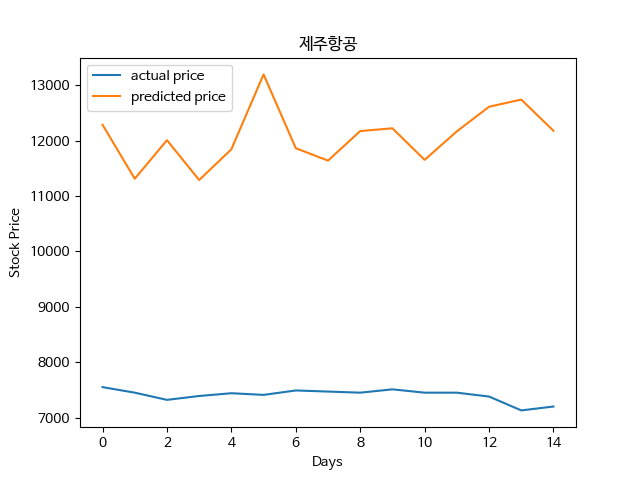
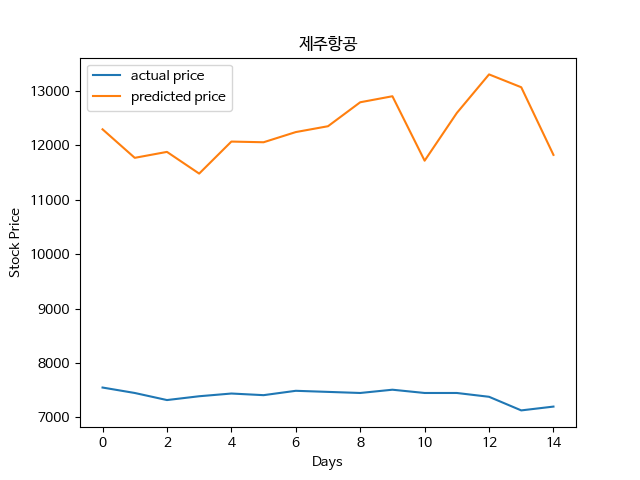
25.02.06

diff --git a/stock/pred_t.py b/stock/pred_t.py
@@ -45,18 +45,18 @@ if __name__ == "__main__":
 
 # Train Parameters
 num_layers = 2  # number of layers in RNN
-learning_rate = 0.001
+learning_rate = 0.0005
 num_epochs = 5000
 input_size = 8
 num_classes = 1
 timesteps = seq_length = 30
 future_seq = 15  # 예측하고자 하는 미래 시퀀스 길이
 
-d_model = 16         # 내부 임베딩 차원
-nhead = 2            # 멀티헤드 Attention의 head 수
+d_model = 32         # 내부 임베딩 차원
+nhead = 8            # 멀티헤드 Attention의 head 수
 dropout = 0.1
 
-weight_decay = 1e-4
+weight_decay = 1e-5
 early_stopping_patience = 500
 early_stopping_delta = 1e-4
 
@@ -69,7 +69,7 @@ if not os.path.exists(file_path):
     print(f"파일이 존재하지 않습니다. {stock_name} 데이터를 다운로드합니다...")
 
     df = stock.get_market_ohlcv_by_date(start_date, end_date, code)
-    print(df.head())
+    # print(df.head())
 
     # adding RSI Index
     df['RSI'] = ta.momentum.rsi(df['종가'], window = 14)
@@ -85,6 +85,7 @@ if not os.path.exists(file_path):
     print(f"{stock_name} 데이터 저장 완료!")
 
 df = pd.read_csv(file_path, encoding='utf-8-sig')
+print(df.head(3))
 
 df_last_actual_price = df['종가'][-future_seq:]
 
@@ -177,7 +178,8 @@ class TransformerModel(nn.Module):
         # 입력 피처를 d_model 차원으로 선형 변환
         self.input_linear = nn.Linear(input_size, d_model)
         self.pos_encoder = PositionalEncoding(d_model, dropout)
-        encoder_layers = nn.TransformerEncoderLayer(d_model=d_model, nhead=nhead, dropout=dropout)
+        
+        encoder_layers = nn.TransformerEncoderLayer(d_model=d_model, nhead=nhead, dropout=dropout, batch_first=True)
         self.transformer_encoder = nn.TransformerEncoder(encoder_layers, num_layers=num_layers)
         # 예측을 위한 최종 FC 레이어
         self.fc = nn.Linear(d_model, num_classes * future_seq)
@@ -276,9 +278,6 @@ test_predict = model(testX)  # shape: [test_samples, future_seq, num_classes]
 # 최근 seq_length일 데이터를 입력으로 하여 앞으로 future_seq일 치 예측
 last_window_index = seq_length + future_seq
 last_window = xy[-last_window_index:]  # shape: [seq_length, input_size]
-print(last_window[-1:])
-print("MAX: ", target_max)
-print("MIN: ", target_min)
 last_window_tensor = torch.Tensor(last_window).unsqueeze(0).to(device)  # add batch dimension
 
 model.eval()
